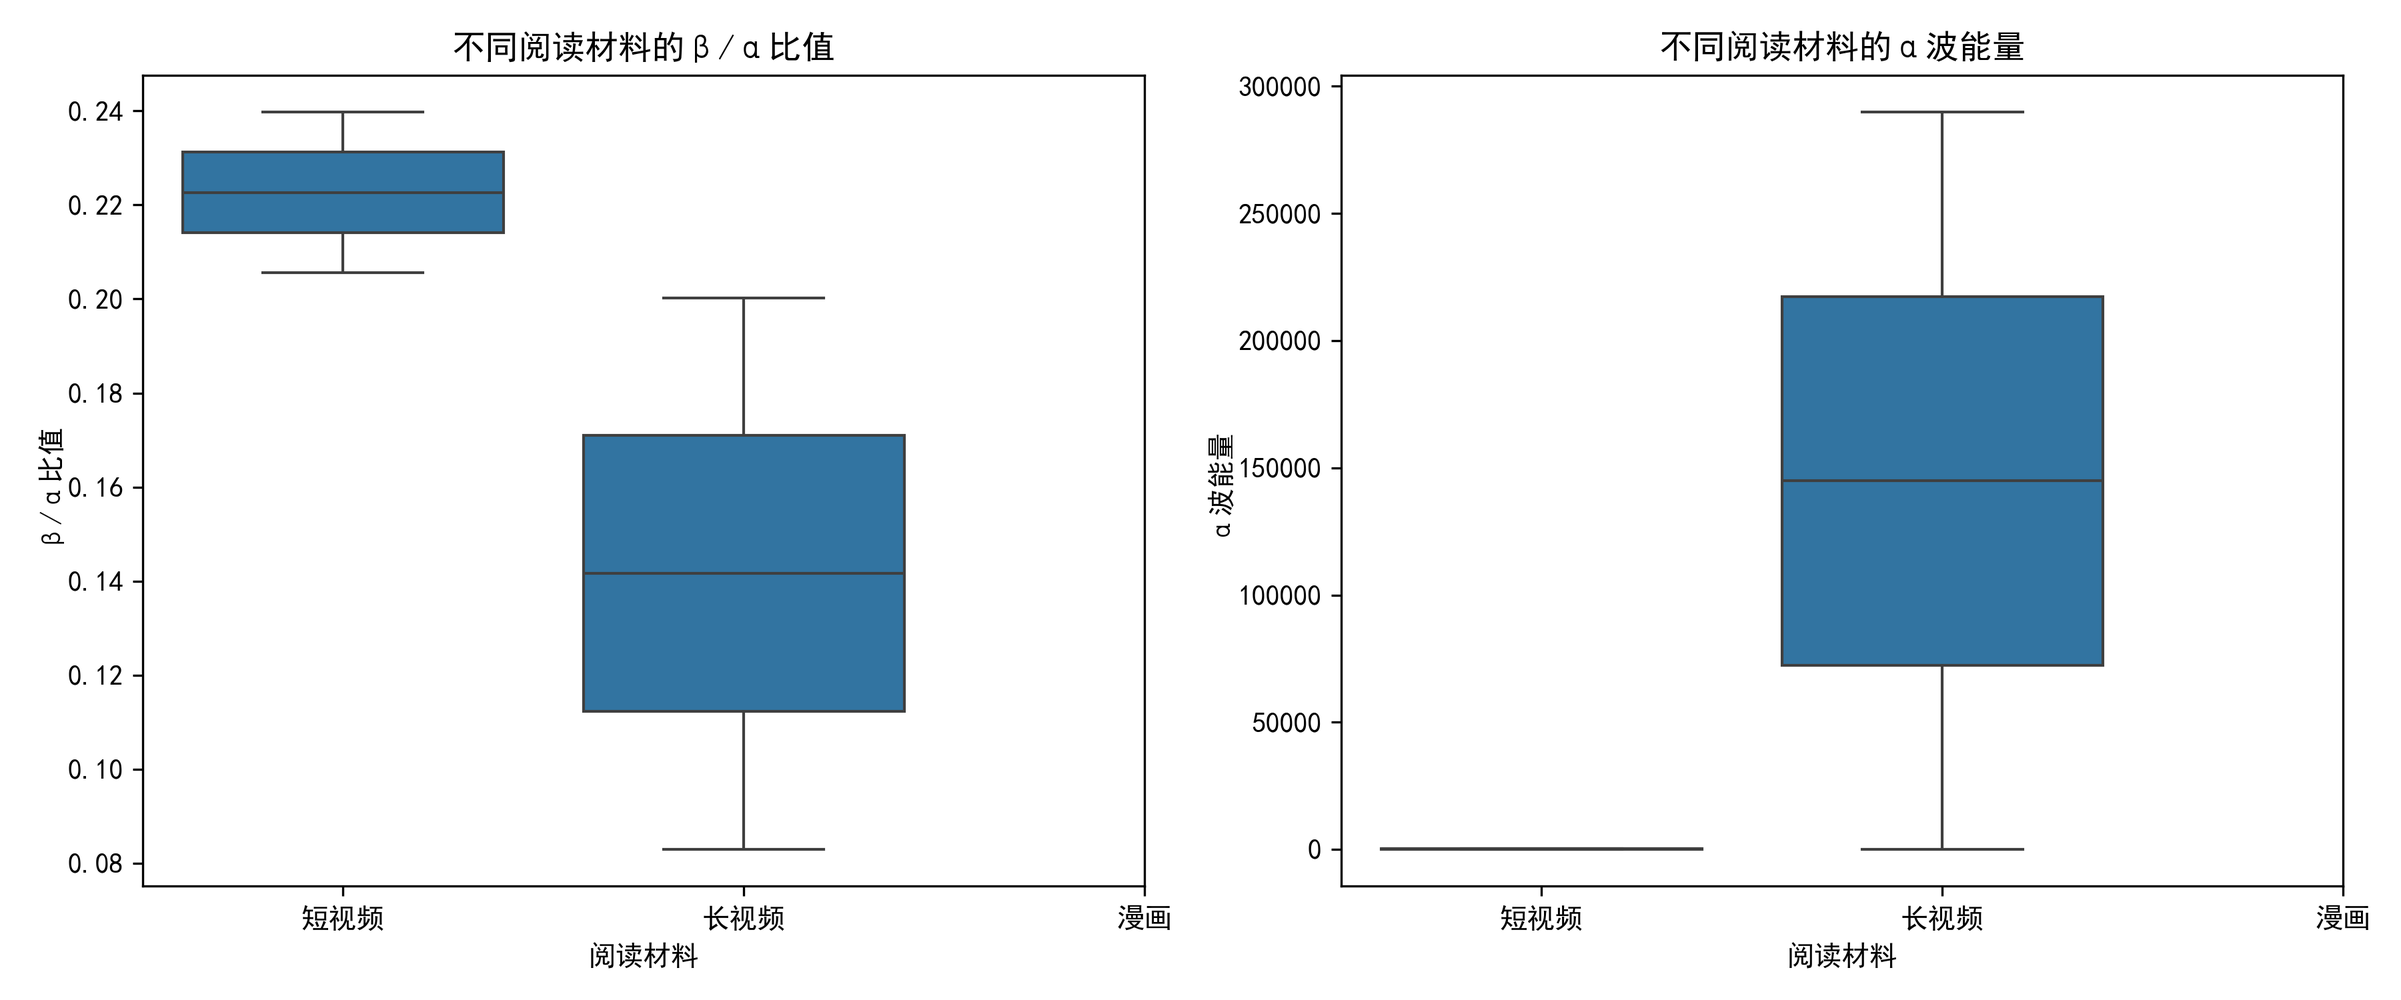
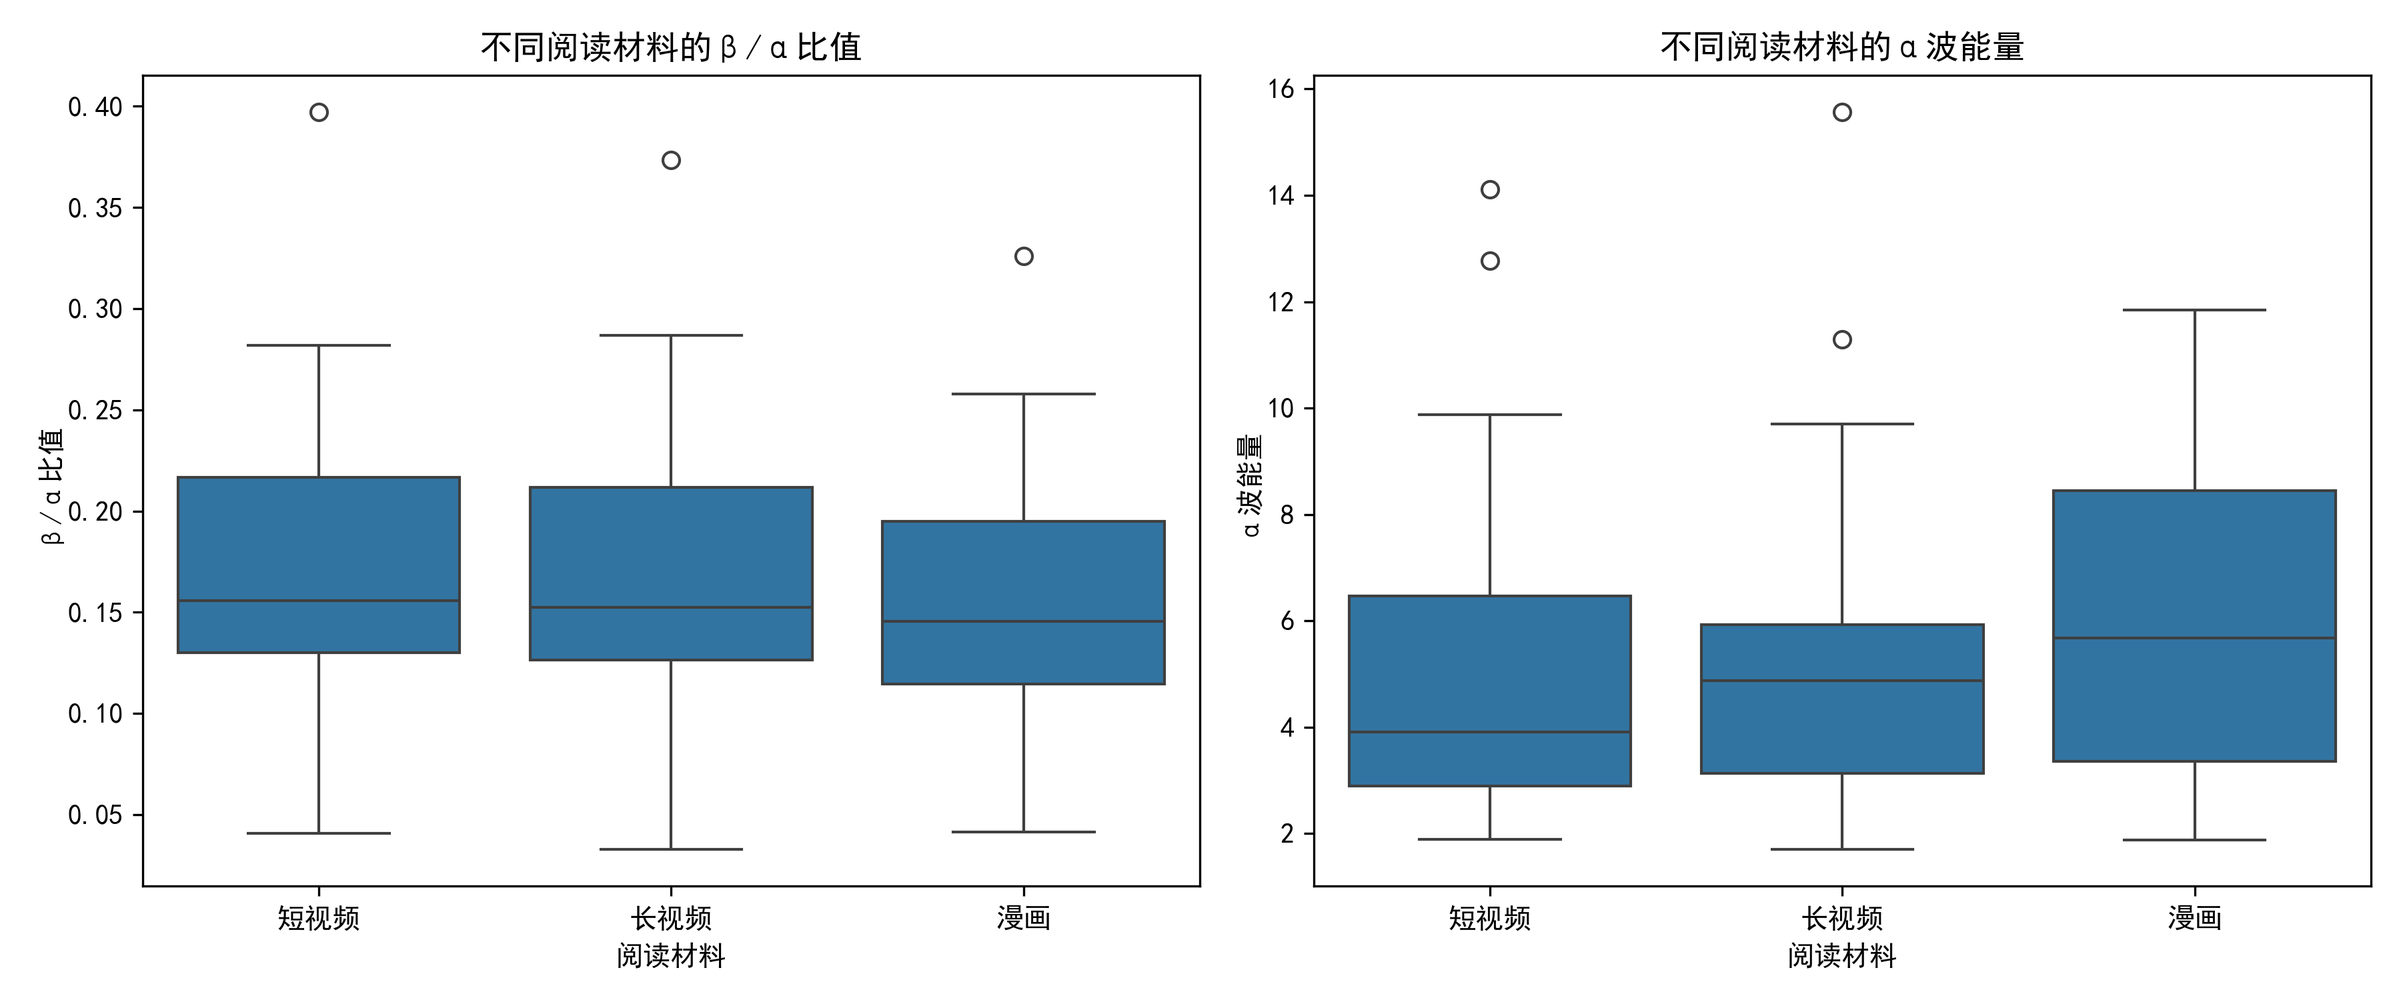
Update Analyse

diff --git a/EEG_Analyse.py b/EEG_Analyse.py
@@ -8,11 +8,11 @@ from scipy.stats import ttest_rel
 from statsmodels.stats.anova import AnovaRM
 
 # 1.1 数据读取
-def read_csv_data(file_path):
+def read_csv_data(file_path, file_conditions_order=None):
     """读取CSV格式的EEG数据，并根据标记提取所有实验段，返回[(raw, condition_label), ...]"""
     # 在函数开头初始化empty_segments
     empty_segments = {}
-    
+
     # 定义标记到标签的映射关系
     key_to_label = {
         'long': '长',
@@ -20,13 +20,13 @@ def read_csv_data(file_path):
         'manga': '漫',
         'manhua': '漫',
     }
-    
+
     data = pd.read_csv(file_path)
     columns = data.columns
 
     # 获取被试姓名
     filename = os.path.basename(file_path)
-    subject_name = filename.split('-')[1] if '-' in filename else ""
+    subject_name = filename.split('-')[1] if '-' in filename else "" # 您已有的代码
 
     # 标记定义
     start_keys = [k for k in columns if k.lower() in ['start', 's', 'strat']]
@@ -37,9 +37,11 @@ def read_csv_data(file_path):
     segments = []
     condition_labels = []
 
-    # 文件名顺序标签
-    file_conditions = ['长', '短', '漫']
-
+    # 文件名顺序标签，如果提供了file_conditions_order，则使用它
+    file_conditions = file_conditions_order if file_conditions_order else ['长', '短', '漫']
+    
+    print(f"使用条件顺序: {file_conditions}")
+    
     if subject_name == "JF" and jingxi_keys:
         # JF：最后一个JINGXI段为manhua
         idxs = data.index[data[jingxi_keys[0]] == 1].tolist()
@@ -158,44 +160,57 @@ def read_csv_data(file_path):
         # 直接用long/short/manga等分段
         seg_keys = [k for k in columns if k.lower() in key_to_label.keys()]
         seg_count = min(len(seg_keys), 3)
-        print(f"被试 {subject_name} 的分段标记: {seg_keys}")
+        print(f"--- 处理文件: {os.path.basename(file_path)} ---") # 添加打印
+        print(f"被试 {subject_name} 的分段标记: {seg_keys}") # 添加打印
+
+        # 处理过的标记
+        processed_keys = []
         
-        for i, key in enumerate(seg_keys[:3]):
-            idxs = data.index[data[key] == 1].tolist()
-            print(f"标记 {key} 的索引位置: {idxs}")
-            if not idxs:
-                print(f"警告：标记 {key} 没有找到有效数据点")
-                empty_segments[key] = "未找到标记点"
+        for i, key in enumerate(seg_keys[:seg_count]): # 修改为seg_count
+            # 如果已经处理过这个标记，跳过
+            if key in processed_keys:
                 continue
                 
-            s = idxs[0]
-            if i+1 < len(seg_keys):
-                next_idxs = data.index[data[seg_keys[i+1]] == 1].tolist()
-                e = next_idxs[0]-1 if next_idxs else len(data)-1
-            else:
-                e = len(data)-1
+            processed_keys.append(key)
                 
+            print(f"\n--- 处理标记: {key} ---") # 添加打印
+            idxs = data.index[data[key] == 1].tolist()
+            print(f"标记 {key} 的索引位置: {idxs}") # 添加打印
+            
+            # 检查是否有至少两个标记点
+            if len(idxs) < 2:
+                print(f"警告：标记 {key} 没有找到两个标记点（开始和结束），只有 {len(idxs)} 个点")
+                empty_segments[key] = f"标记点不足，只有 {len(idxs)} 个点"
+                continue
+
+            # 使用同一标记的第一个位置作为开始，第二个位置作为结束
+            s = idxs[0]
+            e = idxs[1]
+            
+            print(f"计算的分段范围: {s}-{e} (同一标记的第一次和第二次出现)") # 添加打印
+
             # 添加更严格的分段范围验证
             if s >= len(data) or e >= len(data) or s > e:
                 print(f"警告：无效的分段范围 {s}-{e}，跳过此分段")
                 empty_segments[key] = f"无效范围 {s}-{e}"
                 continue
-                
+
             # 检查分段长度是否合理（至少1000个数据点，约1秒数据）
             if (e - s) < 1000:
                 print(f"警告：分段 {key} 数据点不足({e-s})，可能导致功率谱计算失败")
                 empty_segments[key] = f"数据点不足 {e-s}"
                 continue
-                
+
             exp_data = data.iloc[s:e+1, :]
-            
+
             # 检查数据是否全为零或接近零
             if np.allclose(exp_data.select_dtypes(include=[np.number]).values, 0, atol=1e-6):
                 print(f"警告：分段 {key} 数据全为零或接近零，跳过")
                 empty_segments[key] = "数据全为零"
                 continue
-                
+
             label = key_to_label.get(key.lower(), f"未知_{key}")
+            print(f"分段 {key} 成功提取，标签为: {label}") # 添加打印
             segments.append(exp_data)
             condition_labels.append(label)
     else:
@@ -206,15 +221,63 @@ def read_csv_data(file_path):
     # 提取EEG数据并生成raw对象
     results = []
     for exp_data, cond_label in zip(segments, condition_labels):
+        # ---- 您已有的调试打印 ----
+        if subject_name == "ZYH": # 确保这里的 "ZYH" 与被试35文件名中的ID一致
+            print(f"\nDEBUG: Subject {subject_name}, Condition {cond_label}")
+            print("exp_data.head(10):") # 打印原始分段数据的前10行
+            print(exp_data.head(10))
+            print("exp_data.isnull().sum():") # 检查原始分段数据中各列的NaN数量
+            print(exp_data.isnull().sum())
+            print("exp_data.dtypes:") # 检查原始分段数据中各列的数据类型
+            print(exp_data.dtypes)
+        # ---- 调试打印结束 ----
+
         eeg_cols = [col for col in exp_data.columns if col.lower() in ['fp1', 'fp2']]
         if len(eeg_cols) < 2:
             non_time_cols = [col for col in exp_data.columns if col != 'Elapsed Time']
-            eeg_data = exp_data[non_time_cols[:2]]
+            eeg_data = exp_data[non_time_cols[:2]].copy() # 使用 .copy() 避免 SettingWithCopyWarning
         else:
-            eeg_data = exp_data[eeg_cols]
+            eeg_data = exp_data[eeg_cols].copy() # 使用 .copy() 避免 SettingWithCopyWarning
+        
+        # ---- 新增：在创建RawArray前对eeg_data进行NaN插值 ----
+        if eeg_data.isnull().values.any():
+            print(f"INFO: 被试 {subject_name}, 条件 {cond_label} - eeg_data 包含NaN，尝试插值...")
+            for col in eeg_data.columns:
+                if eeg_data[col].isnull().any():
+                    # 确保列是数值类型，非数值转为NaN
+                    eeg_data[col] = pd.to_numeric(eeg_data[col], errors='coerce')
+                    
+                    if eeg_data[col].isnull().all():
+                        print(f"警告：被试 {subject_name}, 条件 {cond_label}, 列 {col} 全是NaN。将用0填充。")
+                        eeg_data[col] = eeg_data[col].fillna(0)
+                        continue
+                    
+                    # 使用pandas内置插值
+                    try:
+                        eeg_data[col] = eeg_data[col].interpolate(method='linear', limit_direction='both', axis=0)
+                        # 如果线性插值后仍有NaN (通常是序列开头或末尾的NaN)，尝试用前后值填充
+                        if eeg_data[col].isnull().any():
+                            eeg_data[col] = eeg_data[col].fillna(method='bfill').fillna(method='ffill')
+                        
+                        remaining_nans = eeg_data[col].isnull().sum()
+                        if remaining_nans > 0:
+                            print(f"警告：被试 {subject_name}, 条件 {cond_label}, 列 {col} 插值后仍有 {remaining_nans} 个NaN。将用0填充剩余NaN。")
+                            eeg_data[col] = eeg_data[col].fillna(0) # 对插值后仍存在的NaN用0填充
+                        else:
+                            print(f"INFO: 被试 {subject_name}, 条件 {cond_label}, 列 {col} 插值完成。")
+                            
+                    except Exception as e_interp:
+                        print(f"错误：被试 {subject_name}, 条件 {cond_label}, 列 {col} 插值失败: {e_interp}。将用0填充NaN。")
+                        eeg_data[col] = eeg_data[col].fillna(0) # 插值失败则用0填充
+
+            if eeg_data.isnull().values.any():
+                 print(f"严重警告：被试 {subject_name}, 条件 {cond_label} - eeg_data 在插值尝试后仍包含NaN。这可能导致后续处理问题。")
+        # ---- 新增插值结束 ----
+
         ch_names = list(eeg_data.columns)
         ch_types = ['eeg'] * len(ch_names)
         info = mne.create_info(ch_names=ch_names, sfreq=1000, ch_types=ch_types)
+        print(eeg_data.head() ,eeg_data.dtypes)
         raw = mne.io.RawArray(eeg_data.T.values, info)
         results.append((raw, cond_label))
         
@@ -261,51 +324,132 @@ def parse_filename(filename):
 def process_all_subjects(data_folder):
     """批量处理所有被试的数据"""
     all_subjects_data = []
-    
+
     # 获取所有CSV文件
-    csv_files = [f for f in os.listdir(data_folder) 
-                if f.endswith('.csv') and not f.startswith('bcrx')
-                and any(f.startswith(f"{num}-") for num in ["35", "36"])]  # 只处理35和36编号
-    
+    csv_files = [f for f in os.listdir(data_folder)
+                if f.endswith('.csv') and not f.startswith('bcrx')] # 处理所有文件
+
     for csv_file in csv_files:
         file_path = os.path.join(data_folder, csv_file)
         subject_id, gender, conditions = parse_filename(csv_file)
-        
+
         print(f"处理被试 {subject_id} 的数据...")
         
-        # 读取数据，返回(raw, label)对
-        raw_label_list = read_csv_data(file_path)
+        # 将条件代码转换为中文标签
+        condition_map_reverse = {'a': '短', 'b': '长', 'c': '漫'}
+        file_conditions_order = [condition_map_reverse[c] for c in conditions if c in condition_map_reverse]
+        
+        # 如果没有有效的条件顺序，使用默认顺序
+        if not file_conditions_order:
+            file_conditions_order = ['长', '短', '漫']
+            
+        print(f"从文件名解析的条件顺序: {file_conditions_order}")
+
+        # 读取数据，返回(raw, label)对，传递条件顺序
+        raw_label_list = read_csv_data(file_path, file_conditions_order)
         
         for (raw, cond_label) in raw_label_list:
+            # 打印滤波前的数据统计
+            try:
+                data_before_filter = raw.copy().get_data() # 使用copy以防影响后续操作
+                print(f"被试 {subject_id} 条件 {cond_label} 的数据统计 (滤波前):")
+                print(f"  形状: {data_before_filter.shape}")
+                print(f"  是否包含NaN: {np.isnan(data_before_filter).any()}")
+                if data_before_filter.size > 0 and not np.isnan(data_before_filter).all():
+                    print(f"  均值: {np.mean(data_before_filter)}")
+                    print(f"  方差: {np.var(data_before_filter)}")
+                    print(f"  最小值: {np.min(data_before_filter)}")
+                    print(f"  最大值: {np.max(data_before_filter)}")
+                    print(f"  零值比例: {np.sum(data_before_filter == 0) / data_before_filter.size}")
+                elif np.isnan(data_before_filter).all():
+                    print(f"  数据在滤波前已全是NaN")
+                else:
+                    print(f"  数据为空或无法计算统计值")
+            except Exception as e:
+                print(f"警告：被试 {subject_id} 条件 {cond_label} 滤波前统计失败: {str(e)}")
+
+
             # 2.1 预处理
             raw.filter(l_freq=0.5, h_freq=40, method='fir', phase='zero-double')  # 带通滤波0.5-40Hz
             raw.notch_filter(freqs=50)  # 陷波滤波去除工频干扰
             
             # 2.2 功率谱密度计算 - 添加数据有效性检查
+            # 在功率谱计算前添加 (这是您已有的打印，现在明确其为滤波后)
+            data_array = raw.get_data()
+            print(f"被试 {subject_id} 条件 {cond_label} 的数据统计 (滤波后):") # 修改了标签以示区别
+            print(f"  形状: {data_array.shape}")
+            print(f"  均值: {np.mean(data_array)}")
+            print(f"  方差: {np.var(data_array)}")
+            print(f"  最小值: {np.min(data_array)}")
+            print(f"  最大值: {np.max(data_array)}")
+            print(f"  零值比例: {np.sum(data_array == 0) / data_array.size if data_array.size > 0 else 'N/A'}")
+
+            # 检查并处理NaN值
+            data_array = raw.get_data() # 确保这是最新的数据
+            if np.isnan(data_array).any():
+                print(f"警告：被试 {subject_id} 条件 {cond_label} 的数据包含NaN值，尝试插值替换")
+                # 对每个通道分别处理NaN值
+                for ch_idx in range(data_array.shape[0]):
+                    # 获取非NaN的索引和值
+                    non_nan_idx = np.where(~np.isnan(data_array[ch_idx]))[0]
+                    if len(non_nan_idx) == 0:
+                        print(f"错误：通道 {ch_idx} 全是NaN值，无法修复")
+                        continue
+                    non_nan_values = data_array[ch_idx, non_nan_idx]
+                    # 创建插值函数
+                    if len(non_nan_idx) > 1:  # 至少需要两个点才能插值
+                        from scipy import interpolate
+                        f = interpolate.interp1d(non_nan_idx, non_nan_values, 
+                                                kind='linear', bounds_error=False, 
+                                                fill_value=(non_nan_values[0], non_nan_values[-1]))
+                        # 生成所有索引
+                        all_idx = np.arange(len(data_array[ch_idx]))
+                        # 替换原始数据
+                        data_array[ch_idx] = f(all_idx)
+                    else:  # 如果只有一个非NaN值，用该值填充所有NaN
+                        data_array[ch_idx] = non_nan_values[0]
+                
+                # 更新raw对象的数据
+                raw._data = data_array
+                
+                # 再次检查
+                if np.isnan(raw.get_data()).any():
+                    print(f"错误：被试 {subject_id} 条件 {cond_label} 的数据仍然包含NaN值，跳过处理")
+                    continue
+            
             if len(raw.get_data()) == 0:
                 print(f"警告：被试 {subject_id} 条件 {cond_label} 的数据为空，跳过")
                 continue
                 
+            # 在process_all_subjects函数中，修改功率谱计算部分
             try:
                 # 检查数据是否全为零或接近零
                 if np.allclose(raw.get_data(), 0, atol=1e-6):
                     print(f"警告：被试 {subject_id} 条件 {cond_label} 的数据全为零，跳过功率谱计算")
                     continue
                     
+                # 添加额外的数据检查
+                data_var = np.var(raw.get_data())
+                if data_var < 1e-10:
+                    print(f"警告：被试 {subject_id} 条件 {cond_label} 的数据方差过小 ({data_var})，跳过功率谱计算")
+                    continue
+                    
                 freqs = np.arange(1, 40, 1)
+                # 修改功率谱计算参数，尝试解决"Weights sum to zero"问题
                 psds, freqs = mne.time_frequency.psd_array_welch(
                     raw.get_data(),
                     sfreq=raw.info['sfreq'],
                     fmin=1,
                     fmax=40,
                     n_jobs=4,
-                    n_fft=2048,  # 增加FFT点数以提高频率分辨率
-                    n_overlap=512  # 增加重叠以提高估计稳定性
+                    n_fft=1024,  # 减小FFT点数
+                    n_overlap=256,  # 减小重叠
+                    average='mean'  # 明确指定平均方法
                 )
             except Exception as e:
                 print(f"警告：被试 {subject_id} 条件 {cond_label} 的功率谱计算失败: {str(e)}")
                 continue
-                
+            
             # 2.3 提取左侧额区电极
             left_frontal_chs = [i for i, ch in enumerate(raw.ch_names) if ch in ['Fp1']]
             
@@ -341,15 +485,29 @@ def main():
     results_df = process_all_subjects(csv_folder)
     
     # 3.1 统计分析
-    # 重复测量方差分析 - α波能量
-    anova_alpha = AnovaRM(results_df, 'AlphaPower', 'Subject', within=['Condition']).fit()
-    print("\nα波能量重复测量方差分析结果:")
-    print(anova_alpha.summary())
+    # 检查数据平衡性
+    print("\n数据平衡性检查:")
+    for subject in results_df['Subject'].unique():
+        conditions = results_df[results_df['Subject'] == subject]['Condition'].unique()
+        print(f"被试 {subject}: {len(conditions)} 个条件 - {', '.join(conditions)}")
     
-    # 重复测量方差分析 - β/α比值
-    anova_ratio = AnovaRM(results_df, 'BetaAlphaRatio', 'Subject', within=['Condition']).fit()
-    print("\nβ/α比值重复测量方差分析结果:")
-    print(anova_ratio.summary())
+    # 尝试使用能处理不平衡数据的方法进行统计分析
+    try:
+        # 重复测量方差分析 - α波能量
+        anova_alpha = AnovaRM(results_df, 'AlphaPower', 'Subject', within=['Condition']).fit()
+        print("\nα波能量重复测量方差分析结果:")
+        print(anova_alpha.summary())
+        
+        # 重复测量方差分析 - β/α比值
+        anova_ratio = AnovaRM(results_df, 'BetaAlphaRatio', 'Subject', within=['Condition']).fit()
+        print("\nβ/α比值重复测量方差分析结果:")
+        print(anova_ratio.summary())
+    except ValueError as e:
+        print(f"\n方差分析失败: {str(e)}")
+        print("尝试使用配对t检验进行条件间比较...")
+        
+        # 如果方差分析失败，直接进行配对t检验
+        # 这里不需要平衡数据，只比较有共同数据的被试
     
     # 3.2 事后配对t检验（Bonferroni校正）
     print("\n事后配对t检验结果:")

diff --git a/csv格式实验数据/bcrx2csv(autogui).py b/csv格式实验数据/bcrx2csv(autogui).py
@@ -18,7 +18,8 @@ print("CSV 文件名列表(按名称排序):")
 for i, name in enumerate(csv_filenames):
     print(f"{i+1}: {name}")
 
-for i in range(1, 37):
+for i in range(35
+, 37):
 
     pyautogui.press('enter')
     # 使用 Win 打开搜索，输入“biocapture”，回车启动软件
